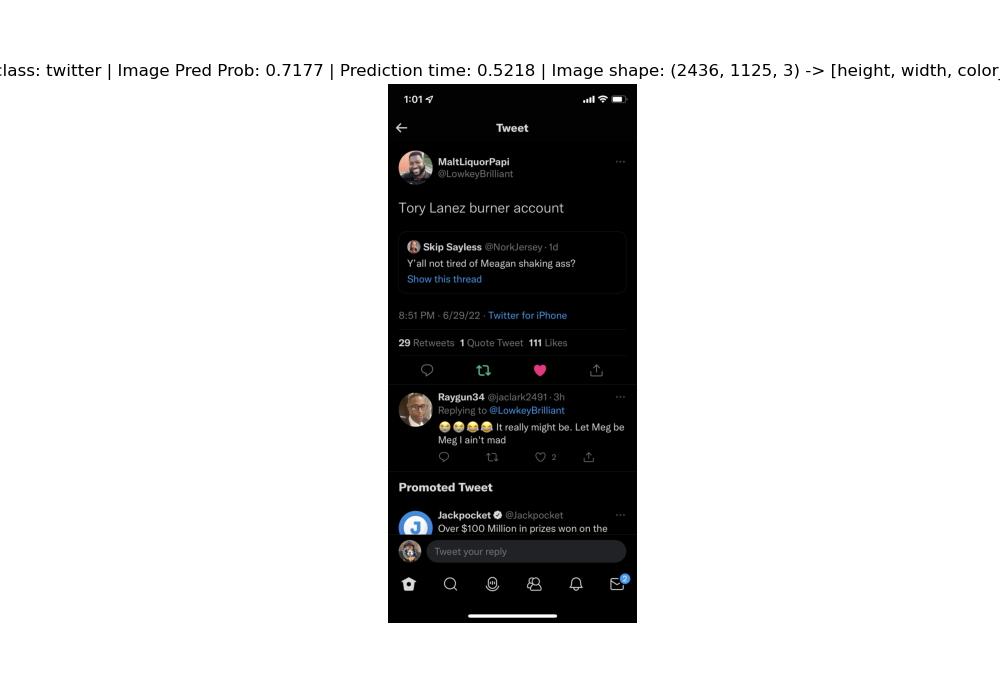
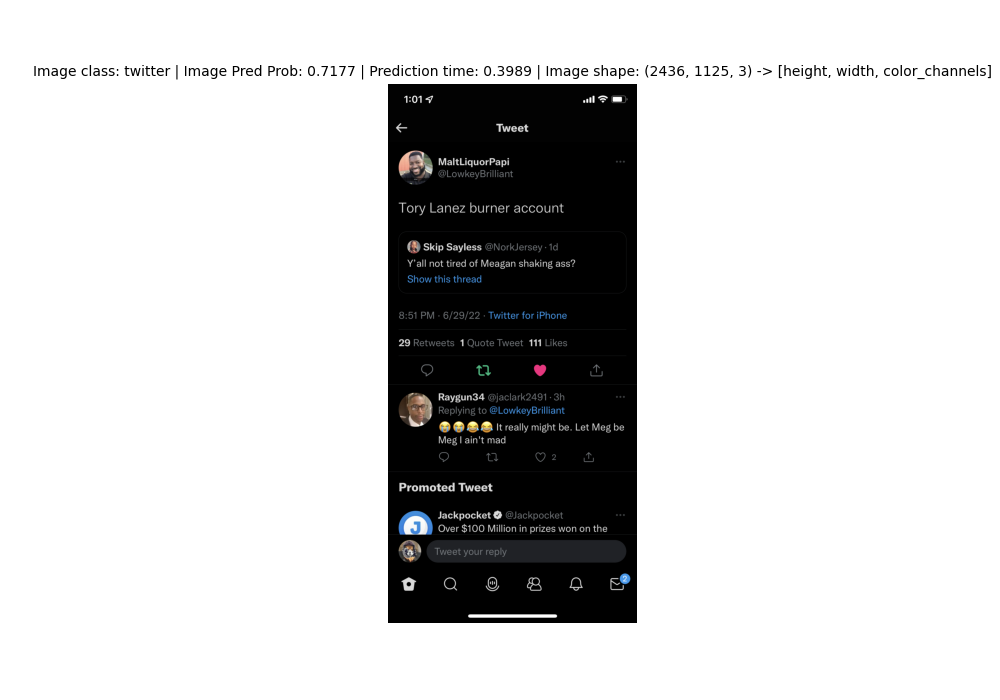
fix(predict): works on non standard files new with different channels

Changed region(s): [[0.0, 0.09, 1.0, 0.12]]

diff --git a/screennet/main.py b/screennet/main.py
@@ -453,8 +453,9 @@ def from_pil_image_to_plt_display(
     # Plot the image with matplotlib
     plt.figure(figsize=(10, 7))
     plt.imshow(img_as_array)
+    title_font_dict = {'fontsize':'10'}
     plt.title(
-        f"Image class: {image_class} | Image Pred Prob: {image_pred_prob} | Prediction time: {image_time_for_pred} | Image shape: {img_as_array.shape} -> [height, width, color_channels]"
+        f"Image class: {image_class} | Image Pred Prob: {image_pred_prob} | Prediction time: {image_time_for_pred} | Image shape: {img_as_array.shape} -> [height, width, color_channels]", fontdict=title_font_dict
     )
     plt.axis(False)
 
